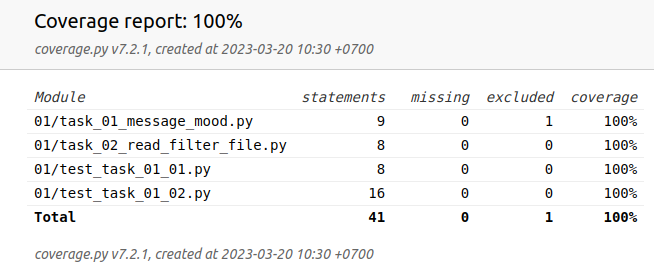
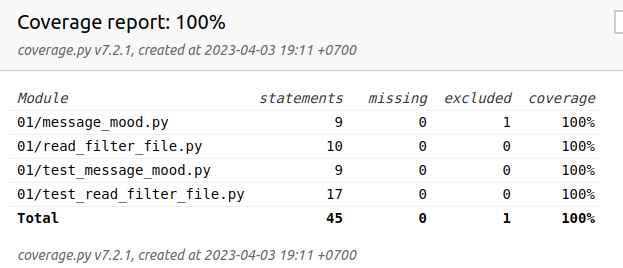
Add test for check argument in predict function

diff --git a/01/test_message_mood.py b/01/test_message_mood.py
@@ -35,6 +35,13 @@ from message_mood import predict_message_mood, SomeModel
             0.6,
             "норм",
         ],
+        [
+            "Какое-то предложение",
+            0.4,
+            0.6,
+            0.4,
+            "норм",
+        ],
     ],
 )
 def test_predict_message_mood(
@@ -45,5 +52,7 @@ def test_predict_message_mood(
     value: float,
     result: str,
 ) -> None:
-    mocker.patch("message_mood.SomeModel.predict", return_value=value)
-    assert predict_message_mood(message, SomeModel(), bad_thresholds, good_thresholds) == result
+    model = SomeModel()
+    model.predict = mocker.MagicMock(side_effect=(value,))
+    assert predict_message_mood(message, model, bad_thresholds, good_thresholds) == result
+    assert model.predict.call_args == ((message,),)
